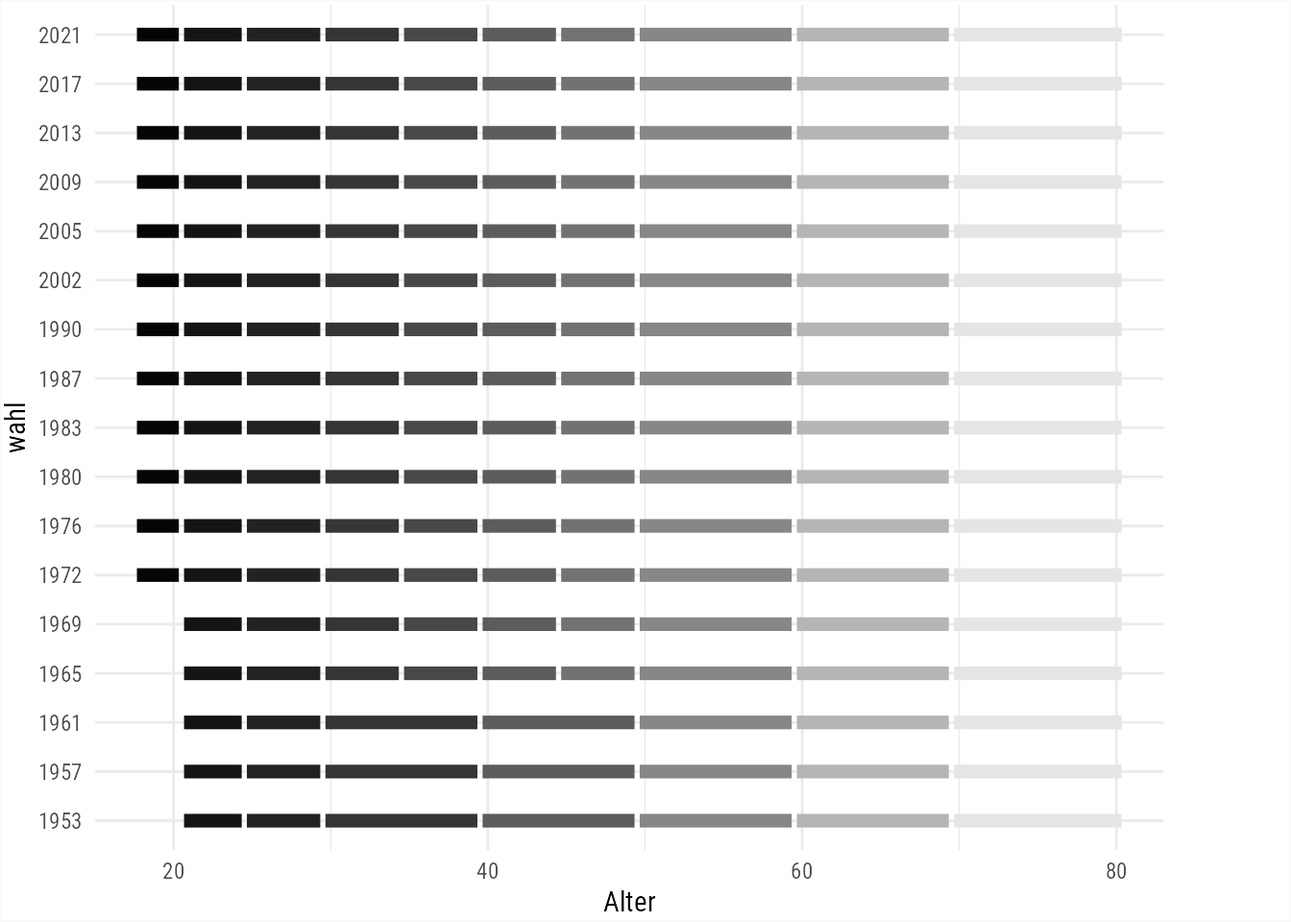
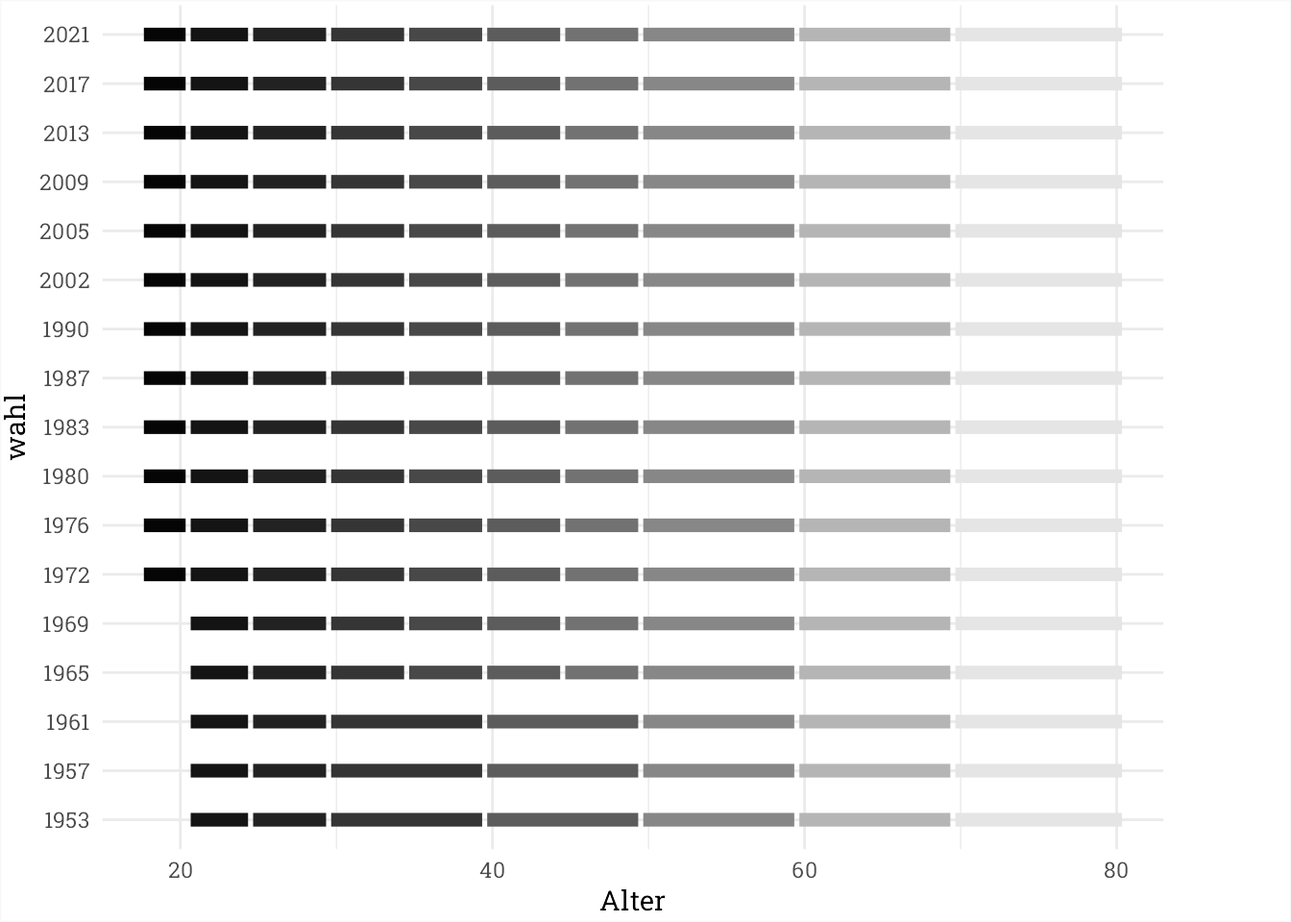
Details und Labels Wbt nach Altersgruppen + nach Geschlecht

diff --git a/01-wahlbeteiligung/01-wahlbeteiligung.html b/01-wahlbeteiligung/01-wahlbeteiligung.html
@@ -105,13 +105,12 @@ pre > code.sourceCode > span > a:first-child::before { text-decoration: underlin
 <div class="sourceCode cell-code" id="cb1"><pre class="sourceCode r code-with-copy"><code class="sourceCode r"><span id="cb1-1"><a href="#cb1-1" aria-hidden="true" tabindex="-1"></a><span class="fu">library</span>(tidyverse)</span>
 <span id="cb1-2"><a href="#cb1-2" aria-hidden="true" tabindex="-1"></a><span class="fu">library</span>(ggtext)</span>
 <span id="cb1-3"><a href="#cb1-3" aria-hidden="true" tabindex="-1"></a><span class="fu">library</span>(gganimate)</span>
-<span id="cb1-4"><a href="#cb1-4" aria-hidden="true" tabindex="-1"></a><span class="fu">library</span>(gt)</span>
-<span id="cb1-5"><a href="#cb1-5" aria-hidden="true" tabindex="-1"></a><span class="fu">library</span>(here)</span>
-<span id="cb1-6"><a href="#cb1-6" aria-hidden="true" tabindex="-1"></a></span>
-<span id="cb1-7"><a href="#cb1-7" aria-hidden="true" tabindex="-1"></a>knitr<span class="sc">::</span>opts_chunk<span class="sc">$</span><span class="fu">set</span>(<span class="at">dev =</span> <span class="st">"ragg_png"</span>)</span>
-<span id="cb1-8"><a href="#cb1-8" aria-hidden="true" tabindex="-1"></a></span>
-<span id="cb1-9"><a href="#cb1-9" aria-hidden="true" tabindex="-1"></a><span class="fu">source</span>(<span class="fu">here</span>(<span class="st">"R"</span>, <span class="st">"custom-theme.R"</span>))</span>
-<span id="cb1-10"><a href="#cb1-10" aria-hidden="true" tabindex="-1"></a><span class="fu">theme_set</span>(<span class="fu">theme_custom</span>())</span></code><button title="Copy to Clipboard" class="code-copy-button"><i class="bi"></i></button></pre></div>
+<span id="cb1-4"><a href="#cb1-4" aria-hidden="true" tabindex="-1"></a><span class="fu">library</span>(here)</span>
+<span id="cb1-5"><a href="#cb1-5" aria-hidden="true" tabindex="-1"></a></span>
+<span id="cb1-6"><a href="#cb1-6" aria-hidden="true" tabindex="-1"></a>knitr<span class="sc">::</span>opts_chunk<span class="sc">$</span><span class="fu">set</span>(<span class="at">dev =</span> <span class="st">"ragg_png"</span>)</span>
+<span id="cb1-7"><a href="#cb1-7" aria-hidden="true" tabindex="-1"></a></span>
+<span id="cb1-8"><a href="#cb1-8" aria-hidden="true" tabindex="-1"></a><span class="fu">source</span>(<span class="fu">here</span>(<span class="st">"R"</span>, <span class="st">"custom-theme.R"</span>))</span>
+<span id="cb1-9"><a href="#cb1-9" aria-hidden="true" tabindex="-1"></a><span class="fu">theme_set</span>(<span class="fu">theme_custom</span>())</span></code><button title="Copy to Clipboard" class="code-copy-button"><i class="bi"></i></button></pre></div>
 </details>
 </div>
 </section>
@@ -197,11 +196,11 @@ pre > code.sourceCode > span > a:first-child::before { text-decoration: underlin
 <span id="cb5-9"><a href="#cb5-9" aria-hidden="true" tabindex="-1"></a>    <span class="at">color =</span> <span class="st">"grey50"</span>, <span class="at">linewidth =</span> <span class="fl">0.9</span>) <span class="sc">+</span></span>
 <span id="cb5-10"><a href="#cb5-10" aria-hidden="true" tabindex="-1"></a>  <span class="fu">geom_point</span>(</span>
 <span id="cb5-11"><a href="#cb5-11" aria-hidden="true" tabindex="-1"></a>    <span class="fu">aes</span>(<span class="at">y =</span> wbt_m, <span class="at">fill =</span> <span class="st">"männlich"</span>),</span>
-<span id="cb5-12"><a href="#cb5-12" aria-hidden="true" tabindex="-1"></a>    <span class="at">size =</span> <span class="dv">4</span>, <span class="at">shape =</span> <span class="dv">21</span>, <span class="at">color =</span> <span class="st">"white"</span>, <span class="at">stroke =</span> <span class="fl">0.2</span></span>
+<span id="cb5-12"><a href="#cb5-12" aria-hidden="true" tabindex="-1"></a>    <span class="at">size =</span> <span class="dv">4</span>, <span class="at">shape =</span> <span class="dv">21</span>, <span class="at">color =</span> <span class="st">"white"</span>, <span class="at">stroke =</span> <span class="fl">0.5</span></span>
 <span id="cb5-13"><a href="#cb5-13" aria-hidden="true" tabindex="-1"></a>  ) <span class="sc">+</span></span>
 <span id="cb5-14"><a href="#cb5-14" aria-hidden="true" tabindex="-1"></a>  <span class="fu">geom_point</span>(</span>
 <span id="cb5-15"><a href="#cb5-15" aria-hidden="true" tabindex="-1"></a>    <span class="fu">aes</span>(<span class="at">y =</span> wbt_w, <span class="at">fill =</span> <span class="st">"weiblich"</span>),</span>
-<span id="cb5-16"><a href="#cb5-16" aria-hidden="true" tabindex="-1"></a>    <span class="at">size =</span> <span class="dv">4</span>, <span class="at">shape =</span> <span class="dv">21</span>, <span class="at">color =</span> <span class="st">"white"</span>, <span class="at">stroke =</span> <span class="fl">0.2</span></span>
+<span id="cb5-16"><a href="#cb5-16" aria-hidden="true" tabindex="-1"></a>    <span class="at">size =</span> <span class="dv">4</span>, <span class="at">shape =</span> <span class="dv">21</span>, <span class="at">color =</span> <span class="st">"white"</span>, <span class="at">stroke =</span> <span class="fl">0.5</span></span>
 <span id="cb5-17"><a href="#cb5-17" aria-hidden="true" tabindex="-1"></a>  ) <span class="sc">+</span></span>
 <span id="cb5-18"><a href="#cb5-18" aria-hidden="true" tabindex="-1"></a>  <span class="fu">scale_x_discrete</span>(<span class="at">position =</span> <span class="st">"top"</span>, <span class="at">expand =</span> <span class="fu">expansion</span>(<span class="at">add =</span> <span class="fu">c</span>(<span class="fl">0.3</span>, <span class="fl">0.8</span>))) <span class="sc">+</span></span>
 <span id="cb5-19"><a href="#cb5-19" aria-hidden="true" tabindex="-1"></a>  <span class="fu">scale_y_continuous</span>(<span class="at">labels =</span> <span class="cf">function</span>(x) <span class="fu">paste</span>(x, <span class="st">"%"</span>)) <span class="sc">+</span></span>
@@ -239,30 +238,31 @@ pre > code.sourceCode > span > a:first-child::before { text-decoration: underlin
 <span id="cb6-9"><a href="#cb6-9" aria-hidden="true" tabindex="-1"></a>    <span class="at">color =</span> <span class="st">"grey50"</span>, <span class="at">linewidth =</span> <span class="fl">0.9</span>) <span class="sc">+</span></span>
 <span id="cb6-10"><a href="#cb6-10" aria-hidden="true" tabindex="-1"></a>  <span class="fu">geom_point</span>(</span>
 <span id="cb6-11"><a href="#cb6-11" aria-hidden="true" tabindex="-1"></a>    <span class="fu">aes</span>(<span class="at">y =</span> wahlbeteiligung_m, <span class="at">fill =</span> <span class="st">"männlich"</span>, <span class="at">size =</span> waehler_m),</span>
-<span id="cb6-12"><a href="#cb6-12" aria-hidden="true" tabindex="-1"></a>    <span class="at">shape =</span> <span class="dv">21</span>, <span class="at">color =</span> <span class="st">"white"</span>, <span class="at">stroke =</span> <span class="fl">0.2</span></span>
+<span id="cb6-12"><a href="#cb6-12" aria-hidden="true" tabindex="-1"></a>    <span class="at">shape =</span> <span class="dv">21</span>, <span class="at">color =</span> <span class="st">"white"</span>, <span class="at">stroke =</span> <span class="fl">0.5</span></span>
 <span id="cb6-13"><a href="#cb6-13" aria-hidden="true" tabindex="-1"></a>  ) <span class="sc">+</span></span>
 <span id="cb6-14"><a href="#cb6-14" aria-hidden="true" tabindex="-1"></a>  <span class="fu">geom_point</span>(</span>
 <span id="cb6-15"><a href="#cb6-15" aria-hidden="true" tabindex="-1"></a>    <span class="fu">aes</span>(<span class="at">y =</span> wahlbeteiligung_w, <span class="at">fill =</span> <span class="st">"weiblich"</span>, <span class="at">size =</span> waehler_w),</span>
-<span id="cb6-16"><a href="#cb6-16" aria-hidden="true" tabindex="-1"></a>    <span class="at">shape =</span> <span class="dv">21</span>, <span class="at">color =</span> <span class="st">"white"</span>, <span class="at">stroke =</span> <span class="fl">0.2</span></span>
+<span id="cb6-16"><a href="#cb6-16" aria-hidden="true" tabindex="-1"></a>    <span class="at">shape =</span> <span class="dv">21</span>, <span class="at">color =</span> <span class="st">"white"</span>, <span class="at">stroke =</span> <span class="fl">0.5</span></span>
 <span id="cb6-17"><a href="#cb6-17" aria-hidden="true" tabindex="-1"></a>  ) <span class="sc">+</span></span>
 <span id="cb6-18"><a href="#cb6-18" aria-hidden="true" tabindex="-1"></a>  <span class="fu">scale_x_discrete</span>(<span class="at">position =</span> <span class="st">"top"</span>, <span class="at">expand =</span> <span class="fu">expansion</span>(<span class="at">add =</span> <span class="fu">c</span>(<span class="fl">0.3</span>, <span class="fl">0.8</span>))) <span class="sc">+</span></span>
 <span id="cb6-19"><a href="#cb6-19" aria-hidden="true" tabindex="-1"></a>  <span class="fu">scale_y_continuous</span>(<span class="at">labels =</span> <span class="cf">function</span>(x) <span class="fu">paste</span>(x, <span class="st">"%"</span>)) <span class="sc">+</span></span>
 <span id="cb6-20"><a href="#cb6-20" aria-hidden="true" tabindex="-1"></a>  <span class="fu">scale_fill_manual</span>(<span class="at">values =</span> <span class="fu">c</span>(<span class="st">"männlich"</span> <span class="ot">=</span> <span class="st">"#00C4A9"</span>, <span class="st">"weiblich"</span> <span class="ot">=</span> <span class="st">"#8A01F5"</span>)) <span class="sc">+</span></span>
-<span id="cb6-21"><a href="#cb6-21" aria-hidden="true" tabindex="-1"></a>  <span class="fu">scale_size_area</span>(<span class="at">max_size =</span> <span class="dv">9</span>) <span class="sc">+</span></span>
+<span id="cb6-21"><a href="#cb6-21" aria-hidden="true" tabindex="-1"></a>  <span class="fu">scale_size_area</span>(<span class="at">max_size =</span> <span class="dv">9</span>, <span class="at">labels =</span> scales<span class="sc">::</span><span class="fu">label_number</span>(<span class="at">scale =</span> <span class="fl">1e-6</span>, <span class="at">suffix =</span> <span class="st">" Mio."</span>)) <span class="sc">+</span></span>
 <span id="cb6-22"><a href="#cb6-22" aria-hidden="true" tabindex="-1"></a>  <span class="fu">coord_cartesian</span>(</span>
 <span id="cb6-23"><a href="#cb6-23" aria-hidden="true" tabindex="-1"></a>    <span class="at">clip =</span> <span class="st">"off"</span>, <span class="at">ylim =</span> <span class="fu">c</span>(<span class="dv">50</span>, <span class="dv">100</span>)) <span class="sc">+</span></span>
-<span id="cb6-24"><a href="#cb6-24" aria-hidden="true" tabindex="-1"></a>  <span class="fu">labs</span>(</span>
-<span id="cb6-25"><a href="#cb6-25" aria-hidden="true" tabindex="-1"></a>    <span class="at">subtitle =</span> <span class="st">"Wahlbeteiligung nach Altersgruppe und Geschlecht"</span>,</span>
-<span id="cb6-26"><a href="#cb6-26" aria-hidden="true" tabindex="-1"></a>    <span class="at">x =</span> <span class="st">"Altersgruppe"</span>,</span>
-<span id="cb6-27"><a href="#cb6-27" aria-hidden="true" tabindex="-1"></a>    <span class="at">y =</span> <span class="st">"Wahlbeteiligung (in %)"</span>,</span>
-<span id="cb6-28"><a href="#cb6-28" aria-hidden="true" tabindex="-1"></a>    <span class="at">fill =</span> <span class="st">"Geschlecht"</span>,</span>
-<span id="cb6-29"><a href="#cb6-29" aria-hidden="true" tabindex="-1"></a>    <span class="at">caption =</span> <span class="st">"Daten: Bundeswahlleiterin, repräsentative Wahlstatistik. Visualisierung: Ansgar Wolsing"</span></span>
-<span id="cb6-30"><a href="#cb6-30" aria-hidden="true" tabindex="-1"></a>  )</span></code><button title="Copy to Clipboard" class="code-copy-button"><i class="bi"></i></button></pre></div>
+<span id="cb6-24"><a href="#cb6-24" aria-hidden="true" tabindex="-1"></a>  <span class="fu">guides</span>(<span class="at">size =</span> <span class="fu">guide_legend</span>(<span class="at">override.aes =</span> <span class="fu">list</span>(<span class="st">"color"</span> <span class="ot">=</span> <span class="st">"grey10"</span>, <span class="at">stroke =</span> <span class="fl">0.2</span>))) <span class="sc">+</span></span>
+<span id="cb6-25"><a href="#cb6-25" aria-hidden="true" tabindex="-1"></a>  <span class="fu">labs</span>(</span>
+<span id="cb6-26"><a href="#cb6-26" aria-hidden="true" tabindex="-1"></a>    <span class="at">subtitle =</span> <span class="st">"Wahlbeteiligung nach Altersgruppe und Geschlecht"</span>,</span>
+<span id="cb6-27"><a href="#cb6-27" aria-hidden="true" tabindex="-1"></a>    <span class="at">x =</span> <span class="st">"Altersgruppe"</span>,</span>
+<span id="cb6-28"><a href="#cb6-28" aria-hidden="true" tabindex="-1"></a>    <span class="at">y =</span> <span class="st">"Wahlbeteiligung (in %)"</span>,</span>
+<span id="cb6-29"><a href="#cb6-29" aria-hidden="true" tabindex="-1"></a>    <span class="at">fill =</span> <span class="st">"Geschlecht"</span>, <span class="at">size =</span> <span class="st">"Anzahl Wählende"</span>,</span>
+<span id="cb6-30"><a href="#cb6-30" aria-hidden="true" tabindex="-1"></a>    <span class="at">caption =</span> <span class="st">"Daten: Bundeswahlleiterin, repräsentative Wahlstatistik. Visualisierung: Ansgar Wolsing"</span></span>
+<span id="cb6-31"><a href="#cb6-31" aria-hidden="true" tabindex="-1"></a>  )</span></code><button title="Copy to Clipboard" class="code-copy-button"><i class="bi"></i></button></pre></div>
 </details>
 <div class="cell-output-display">
 <div>
 <figure class="figure">
-<p><img src="01-wahlbeteiligung_files/figure-html/wbt-altersgruppen-geschlecht-dumbbell-plot-2-1.png" class="img-fluid figure-img" width="672"></p>
+<p><img src="01-wahlbeteiligung_files/figure-html/wbt-altersgruppen-geschlecht-dumbbell-plot-2-1.png" class="img-fluid figure-img" width="864"></p>
 </figure>
 </div>
 </div>
@@ -282,7 +282,7 @@ pre > code.sourceCode > span > a:first-child::before { text-decoration: underlin
 <span id="cb7-10"><a href="#cb7-10" aria-hidden="true" tabindex="-1"></a>    <span class="fu">aes</span>(<span class="at">x =</span> altersgruppe, </span>
 <span id="cb7-11"><a href="#cb7-11" aria-hidden="true" tabindex="-1"></a>        <span class="at">y =</span> wahlbeteiligung,</span>
 <span id="cb7-12"><a href="#cb7-12" aria-hidden="true" tabindex="-1"></a>        <span class="at">label =</span> wahl), </span>
-<span id="cb7-13"><a href="#cb7-13" aria-hidden="true" tabindex="-1"></a>    <span class="at">color =</span> color_pal[<span class="dv">1</span>], <span class="at">hjust =</span> <span class="dv">0</span>, <span class="at">nudge_x =</span> <span class="fl">0.1</span>, <span class="at">family =</span> <span class="st">"Roboto Condensed"</span>, <span class="at">size =</span> <span class="dv">5</span>,</span>
+<span id="cb7-13"><a href="#cb7-13" aria-hidden="true" tabindex="-1"></a>    <span class="at">color =</span> color_pal[<span class="dv">1</span>], <span class="at">hjust =</span> <span class="dv">0</span>, <span class="at">nudge_x =</span> <span class="fl">0.1</span>, <span class="at">family =</span> <span class="st">"Roboto Slab"</span>, <span class="at">size =</span> <span class="dv">5</span>,</span>
 <span id="cb7-14"><a href="#cb7-14" aria-hidden="true" tabindex="-1"></a>    <span class="at">fontface =</span> <span class="st">"bold"</span></span>
 <span id="cb7-15"><a href="#cb7-15" aria-hidden="true" tabindex="-1"></a>  ) <span class="sc">+</span></span>
 <span id="cb7-16"><a href="#cb7-16" aria-hidden="true" tabindex="-1"></a>  <span class="fu">scale_x_discrete</span>(<span class="at">position =</span> <span class="st">"top"</span>, <span class="at">expand =</span> <span class="fu">expansion</span>(<span class="at">add =</span> <span class="fu">c</span>(<span class="fl">0.3</span>, <span class="fl">0.8</span>))) <span class="sc">+</span></span>
@@ -334,7 +334,7 @@ pre > code.sourceCode > span > a:first-child::before { text-decoration: underlin
 <span id="cb8-14"><a href="#cb8-14" aria-hidden="true" tabindex="-1"></a>    <span class="fu">aes</span>(<span class="at">x =</span> altersgruppe, </span>
 <span id="cb8-15"><a href="#cb8-15" aria-hidden="true" tabindex="-1"></a>        <span class="at">y =</span> wahlbeteiligung,</span>
 <span id="cb8-16"><a href="#cb8-16" aria-hidden="true" tabindex="-1"></a>        <span class="at">label =</span> geschlecht_label, <span class="at">color =</span> geschlecht), </span>
-<span id="cb8-17"><a href="#cb8-17" aria-hidden="true" tabindex="-1"></a>    <span class="at">hjust =</span> <span class="dv">0</span>, <span class="at">nudge_x =</span> <span class="fl">0.1</span>, <span class="at">family =</span> <span class="st">"Roboto Condensed"</span>, <span class="at">size =</span> <span class="dv">3</span>,</span>
+<span id="cb8-17"><a href="#cb8-17" aria-hidden="true" tabindex="-1"></a>    <span class="at">hjust =</span> <span class="dv">0</span>, <span class="at">nudge_x =</span> <span class="fl">0.1</span>, <span class="at">family =</span> <span class="st">"Roboto Slab"</span>, <span class="at">size =</span> <span class="dv">3</span>,</span>
 <span id="cb8-18"><a href="#cb8-18" aria-hidden="true" tabindex="-1"></a>    <span class="at">fontface =</span> <span class="st">"bold"</span></span>
 <span id="cb8-19"><a href="#cb8-19" aria-hidden="true" tabindex="-1"></a>  ) <span class="sc">+</span></span>
 <span id="cb8-20"><a href="#cb8-20" aria-hidden="true" tabindex="-1"></a>  <span class="fu">geom_richtext</span>(</span>
@@ -342,7 +342,7 @@ pre > code.sourceCode > span > a:first-child::before { text-decoration: underlin
 <span id="cb8-22"><a href="#cb8-22" aria-hidden="true" tabindex="-1"></a>      <span class="fu">distinct</span>(altersgruppe, wahl),</span>
 <span id="cb8-23"><a href="#cb8-23" aria-hidden="true" tabindex="-1"></a>    <span class="fu">aes</span>(<span class="at">x =</span> altersgruppe, <span class="at">y =</span> <span class="dv">60</span>, </span>
 <span id="cb8-24"><a href="#cb8-24" aria-hidden="true" tabindex="-1"></a>        <span class="at">label =</span> <span class="fu">sprintf</span>(<span class="st">"&lt;span style='font-size: 12pt'&gt;Bundestagswahl&lt;/span&gt;&lt;br&gt;&lt;b&gt;%s&lt;/b&gt;"</span>, wahl)),</span>
-<span id="cb8-25"><a href="#cb8-25" aria-hidden="true" tabindex="-1"></a>    <span class="at">color =</span> <span class="st">"grey50"</span>, <span class="at">size =</span> <span class="dv">12</span>, <span class="at">hjust =</span> <span class="dv">1</span>, <span class="at">family =</span> <span class="st">"Roboto Condensed"</span>,</span>
+<span id="cb8-25"><a href="#cb8-25" aria-hidden="true" tabindex="-1"></a>    <span class="at">color =</span> <span class="st">"grey50"</span>, <span class="at">size =</span> <span class="dv">12</span>, <span class="at">hjust =</span> <span class="dv">1</span>, <span class="at">family =</span> <span class="st">"Roboto Slab"</span>,</span>
 <span id="cb8-26"><a href="#cb8-26" aria-hidden="true" tabindex="-1"></a>    <span class="at">fill =</span> <span class="cn">NA</span>, <span class="at">label.size =</span> <span class="dv">0</span>, <span class="at">lineheight =</span> <span class="fl">0.2</span>,</span>
 <span id="cb8-27"><a href="#cb8-27" aria-hidden="true" tabindex="-1"></a>    <span class="at">inherit.aes =</span> <span class="cn">FALSE</span></span>
 <span id="cb8-28"><a href="#cb8-28" aria-hidden="true" tabindex="-1"></a>  ) <span class="sc">+</span></span>
@@ -409,40 +409,63 @@ pre > code.sourceCode > span > a:first-child::before { text-decoration: underlin
 <span id="cb10-4"><a href="#cb10-4" aria-hidden="true" tabindex="-1"></a>btw_wahljahre <span class="ot">&lt;-</span> <span class="fu">c</span>(<span class="dv">1953</span>, <span class="dv">1957</span>, <span class="dv">1961</span>, <span class="dv">1965</span>, <span class="dv">1969</span>, <span class="dv">1972</span>, <span class="dv">1976</span>, <span class="dv">1980</span>, <span class="dv">1983</span>, <span class="dv">1987</span>,</span>
 <span id="cb10-5"><a href="#cb10-5" aria-hidden="true" tabindex="-1"></a>                   <span class="dv">1990</span>, <span class="dv">1994</span>, <span class="dv">1998</span>, <span class="dv">2002</span>, <span class="dv">2005</span>, <span class="dv">2009</span>, <span class="dv">2013</span>, <span class="dv">2017</span>, <span class="dv">2021</span>)</span>
 <span id="cb10-6"><a href="#cb10-6" aria-hidden="true" tabindex="-1"></a></span>
-<span id="cb10-7"><a href="#cb10-7" aria-hidden="true" tabindex="-1"></a>df_wbt <span class="sc">|&gt;</span> </span>
-<span id="cb10-8"><a href="#cb10-8" aria-hidden="true" tabindex="-1"></a>  <span class="fu">filter</span>(altersgruppe <span class="sc">!=</span> <span class="st">"Summe"</span>, geschlecht <span class="sc">==</span> <span class="st">"Summe"</span>) <span class="sc">|&gt;</span> </span>
-<span id="cb10-9"><a href="#cb10-9" aria-hidden="true" tabindex="-1"></a>  <span class="fu">mutate</span>(<span class="at">altersgruppe_highlighted =</span> <span class="fu">case_when</span>(</span>
-<span id="cb10-10"><a href="#cb10-10" aria-hidden="true" tabindex="-1"></a>    altersgruppe <span class="sc">%in%</span> highlighted_altersgrp_jung <span class="sc">~</span> <span class="st">"1"</span>,</span>
-<span id="cb10-11"><a href="#cb10-11" aria-hidden="true" tabindex="-1"></a>    altersgruppe <span class="sc">%in%</span> highlighted_altersgrp_alt <span class="sc">~</span> <span class="st">"3"</span>,</span>
-<span id="cb10-12"><a href="#cb10-12" aria-hidden="true" tabindex="-1"></a>    <span class="cn">TRUE</span> <span class="sc">~</span> <span class="st">"2"</span></span>
-<span id="cb10-13"><a href="#cb10-13" aria-hidden="true" tabindex="-1"></a>  )) <span class="sc">|&gt;</span> </span>
-<span id="cb10-14"><a href="#cb10-14" aria-hidden="true" tabindex="-1"></a>  <span class="fu">mutate</span>(<span class="at">wahl =</span> <span class="fu">factor</span>(wahl, <span class="at">levels =</span> btw_wahljahre)) <span class="sc">|&gt;</span> </span>
-<span id="cb10-15"><a href="#cb10-15" aria-hidden="true" tabindex="-1"></a>  <span class="fu">ggplot</span>(<span class="fu">aes</span>(wahl, waehler, <span class="at">group =</span> altersgruppe, </span>
-<span id="cb10-16"><a href="#cb10-16" aria-hidden="true" tabindex="-1"></a>             <span class="at">fill =</span> altersgruppe_highlighted)) <span class="sc">+</span></span>
-<span id="cb10-17"><a href="#cb10-17" aria-hidden="true" tabindex="-1"></a>  <span class="fu">geom_col</span>(<span class="at">position =</span> <span class="st">"fill"</span>, <span class="at">col =</span> <span class="st">"white"</span>, <span class="at">linewidth =</span> <span class="fl">0.2</span>) <span class="sc">+</span></span>
-<span id="cb10-18"><a href="#cb10-18" aria-hidden="true" tabindex="-1"></a>  <span class="co"># geom_text(aes(label = altersgruppe), position = position_fill(), size = 2, vjust = 1) +</span></span>
-<span id="cb10-19"><a href="#cb10-19" aria-hidden="true" tabindex="-1"></a>  <span class="fu">scale_x_discrete</span>(<span class="at">drop =</span> <span class="cn">FALSE</span>) <span class="sc">+</span></span>
-<span id="cb10-20"><a href="#cb10-20" aria-hidden="true" tabindex="-1"></a>  <span class="fu">scale_y_continuous</span>(</span>
-<span id="cb10-21"><a href="#cb10-21" aria-hidden="true" tabindex="-1"></a>    <span class="at">breaks =</span> <span class="fu">seq</span>(<span class="dv">0</span>, <span class="dv">1</span>, <span class="fl">0.1</span>),</span>
-<span id="cb10-22"><a href="#cb10-22" aria-hidden="true" tabindex="-1"></a>    <span class="at">labels =</span> scales<span class="sc">::</span><span class="fu">label_percent</span>(),</span>
-<span id="cb10-23"><a href="#cb10-23" aria-hidden="true" tabindex="-1"></a>    <span class="at">sec.axis =</span> <span class="fu">dup_axis</span>(),</span>
-<span id="cb10-24"><a href="#cb10-24" aria-hidden="true" tabindex="-1"></a>    <span class="at">expand =</span> <span class="fu">expansion</span>(<span class="at">mult =</span> <span class="fu">c</span>(<span class="dv">0</span>, <span class="fl">0.05</span>))</span>
-<span id="cb10-25"><a href="#cb10-25" aria-hidden="true" tabindex="-1"></a>    ) <span class="sc">+</span></span>
-<span id="cb10-26"><a href="#cb10-26" aria-hidden="true" tabindex="-1"></a>  <span class="fu">scale_fill_manual</span>(<span class="at">values =</span> <span class="fu">c</span>(<span class="st">"1"</span> <span class="ot">=</span> color_pal[<span class="dv">3</span>], <span class="st">"2"</span> <span class="ot">=</span> <span class="st">"grey75"</span>, <span class="st">"3"</span> <span class="ot">=</span> color_pal[<span class="dv">1</span>])) <span class="sc">+</span></span>
-<span id="cb10-27"><a href="#cb10-27" aria-hidden="true" tabindex="-1"></a>  <span class="fu">guides</span>(<span class="at">fill =</span> <span class="st">"none"</span>) <span class="sc">+</span></span>
-<span id="cb10-28"><a href="#cb10-28" aria-hidden="true" tabindex="-1"></a>  <span class="fu">labs</span>(</span>
-<span id="cb10-29"><a href="#cb10-29" aria-hidden="true" tabindex="-1"></a>    <span class="at">title =</span> <span class="st">"Der Anteil der Wählenden ab 60 Jahren hat sich seit 1953 verdoppelt"</span>,</span>
-<span id="cb10-30"><a href="#cb10-30" aria-hidden="true" tabindex="-1"></a>    <span class="at">subtitle =</span> <span class="fu">sprintf</span>(<span class="st">"Wählende &lt;b style='color:%s'&gt;unter 25 Jahre&lt;/b&gt; | &lt;b style='color:%s'&gt;ab 60 Jahren&lt;/b&gt;"</span>, color_pal[<span class="dv">3</span>], color_pal[<span class="dv">1</span>]),</span>
-<span id="cb10-31"><a href="#cb10-31" aria-hidden="true" tabindex="-1"></a>    <span class="at">caption =</span> <span class="st">"Daten: Bundeswahlleiterin, repräsentative Wahlstatistik. Visualisierung: Ansgar Wolsing"</span>,</span>
-<span id="cb10-32"><a href="#cb10-32" aria-hidden="true" tabindex="-1"></a>    <span class="at">x =</span> <span class="cn">NULL</span>,</span>
-<span id="cb10-33"><a href="#cb10-33" aria-hidden="true" tabindex="-1"></a>    <span class="at">y =</span> <span class="st">"Anteil an der Wählerschaft (in %)"</span>,</span>
-<span id="cb10-34"><a href="#cb10-34" aria-hidden="true" tabindex="-1"></a>  ) <span class="sc">+</span> </span>
-<span id="cb10-35"><a href="#cb10-35" aria-hidden="true" tabindex="-1"></a>  <span class="fu">theme</span>(</span>
-<span id="cb10-36"><a href="#cb10-36" aria-hidden="true" tabindex="-1"></a>    <span class="at">legend.position =</span> <span class="st">"bottom"</span>,</span>
-<span id="cb10-37"><a href="#cb10-37" aria-hidden="true" tabindex="-1"></a>    <span class="at">panel.grid.major.x =</span> <span class="fu">element_blank</span>(),</span>
-<span id="cb10-38"><a href="#cb10-38" aria-hidden="true" tabindex="-1"></a>    <span class="at">panel.grid.minor =</span> <span class="fu">element_blank</span>(),</span>
-<span id="cb10-39"><a href="#cb10-39" aria-hidden="true" tabindex="-1"></a>    <span class="at">axis.title.y.right =</span> <span class="fu">element_blank</span>()</span>
-<span id="cb10-40"><a href="#cb10-40" aria-hidden="true" tabindex="-1"></a>  )</span></code><button title="Copy to Clipboard" class="code-copy-button"><i class="bi"></i></button></pre></div>
+<span id="cb10-7"><a href="#cb10-7" aria-hidden="true" tabindex="-1"></a></span>
+<span id="cb10-8"><a href="#cb10-8" aria-hidden="true" tabindex="-1"></a>df_plot_wbt_altersgrp <span class="ot">&lt;-</span> df_wbt <span class="sc">|&gt;</span> </span>
+<span id="cb10-9"><a href="#cb10-9" aria-hidden="true" tabindex="-1"></a>  <span class="fu">filter</span>(altersgruppe <span class="sc">!=</span> <span class="st">"Summe"</span>, geschlecht <span class="sc">==</span> <span class="st">"Summe"</span>) <span class="sc">|&gt;</span> </span>
+<span id="cb10-10"><a href="#cb10-10" aria-hidden="true" tabindex="-1"></a>  <span class="fu">select</span>(wahl, altersgruppe, waehler) <span class="sc">|&gt;</span> </span>
+<span id="cb10-11"><a href="#cb10-11" aria-hidden="true" tabindex="-1"></a>  <span class="fu">group_by</span>(wahl) <span class="sc">|&gt;</span> </span>
+<span id="cb10-12"><a href="#cb10-12" aria-hidden="true" tabindex="-1"></a>  <span class="fu">mutate</span>(<span class="at">waehler_share =</span> waehler <span class="sc">/</span> <span class="fu">sum</span>(waehler)) <span class="sc">|&gt;</span> </span>
+<span id="cb10-13"><a href="#cb10-13" aria-hidden="true" tabindex="-1"></a>  <span class="fu">ungroup</span>() <span class="sc">|&gt;</span> </span>
+<span id="cb10-14"><a href="#cb10-14" aria-hidden="true" tabindex="-1"></a>  <span class="fu">mutate</span>(<span class="at">altersgruppe_highlighted =</span> <span class="fu">case_when</span>(</span>
+<span id="cb10-15"><a href="#cb10-15" aria-hidden="true" tabindex="-1"></a>    altersgruppe <span class="sc">%in%</span> highlighted_altersgrp_jung <span class="sc">~</span> <span class="st">"1"</span>,</span>
+<span id="cb10-16"><a href="#cb10-16" aria-hidden="true" tabindex="-1"></a>    altersgruppe <span class="sc">%in%</span> highlighted_altersgrp_alt <span class="sc">~</span> <span class="st">"3"</span>,</span>
+<span id="cb10-17"><a href="#cb10-17" aria-hidden="true" tabindex="-1"></a>    <span class="cn">TRUE</span> <span class="sc">~</span> <span class="st">"2"</span></span>
+<span id="cb10-18"><a href="#cb10-18" aria-hidden="true" tabindex="-1"></a>  )) <span class="sc">|&gt;</span> </span>
+<span id="cb10-19"><a href="#cb10-19" aria-hidden="true" tabindex="-1"></a>  <span class="fu">mutate</span>(<span class="at">wahl =</span> <span class="fu">factor</span>(wahl, <span class="at">levels =</span> btw_wahljahre)) </span>
+<span id="cb10-20"><a href="#cb10-20" aria-hidden="true" tabindex="-1"></a></span>
+<span id="cb10-21"><a href="#cb10-21" aria-hidden="true" tabindex="-1"></a></span>
+<span id="cb10-22"><a href="#cb10-22" aria-hidden="true" tabindex="-1"></a><span class="co"># Daten für die Label am ersten Balken</span></span>
+<span id="cb10-23"><a href="#cb10-23" aria-hidden="true" tabindex="-1"></a>df_plot_wbt_altersgrp_labels <span class="ot">&lt;-</span> df_plot_wbt_altersgrp <span class="sc">|&gt;</span> </span>
+<span id="cb10-24"><a href="#cb10-24" aria-hidden="true" tabindex="-1"></a>  <span class="fu">filter</span>(wahl <span class="sc">==</span>  <span class="fu">first</span>(wahl)) <span class="sc">|&gt;</span> </span>
+<span id="cb10-25"><a href="#cb10-25" aria-hidden="true" tabindex="-1"></a>  <span class="fu">arrange</span>(<span class="fu">desc</span>(altersgruppe)) <span class="sc">|&gt;</span> </span>
+<span id="cb10-26"><a href="#cb10-26" aria-hidden="true" tabindex="-1"></a>  <span class="fu">mutate</span>(</span>
+<span id="cb10-27"><a href="#cb10-27" aria-hidden="true" tabindex="-1"></a>    <span class="at">ypos_label =</span> <span class="fu">cumsum</span>(waehler_share) <span class="sc">-</span> waehler_share <span class="sc">/</span> <span class="dv">2</span>)</span>
+<span id="cb10-28"><a href="#cb10-28" aria-hidden="true" tabindex="-1"></a></span>
+<span id="cb10-29"><a href="#cb10-29" aria-hidden="true" tabindex="-1"></a></span>
+<span id="cb10-30"><a href="#cb10-30" aria-hidden="true" tabindex="-1"></a>df_plot_wbt_altersgrp <span class="sc">|&gt;</span> </span>
+<span id="cb10-31"><a href="#cb10-31" aria-hidden="true" tabindex="-1"></a>  <span class="fu">ggplot</span>(<span class="fu">aes</span>(wahl, waehler_share, <span class="at">group =</span> altersgruppe, </span>
+<span id="cb10-32"><a href="#cb10-32" aria-hidden="true" tabindex="-1"></a>             <span class="at">fill =</span> altersgruppe_highlighted)) <span class="sc">+</span></span>
+<span id="cb10-33"><a href="#cb10-33" aria-hidden="true" tabindex="-1"></a>  <span class="fu">geom_col</span>(<span class="at">position =</span> <span class="st">"fill"</span>, <span class="at">col =</span> <span class="st">"white"</span>, <span class="at">linewidth =</span> <span class="fl">0.2</span>) <span class="sc">+</span></span>
+<span id="cb10-34"><a href="#cb10-34" aria-hidden="true" tabindex="-1"></a>  <span class="co"># Label für den ersten Balken</span></span>
+<span id="cb10-35"><a href="#cb10-35" aria-hidden="true" tabindex="-1"></a>  <span class="fu">geom_text</span>(</span>
+<span id="cb10-36"><a href="#cb10-36" aria-hidden="true" tabindex="-1"></a>    <span class="at">data =</span> df_plot_wbt_altersgrp_labels,</span>
+<span id="cb10-37"><a href="#cb10-37" aria-hidden="true" tabindex="-1"></a>    <span class="fu">aes</span>(wahl, ypos_label, <span class="at">label =</span> <span class="fu">str_wrap</span>(altersgruppe, <span class="dv">5</span>),</span>
+<span id="cb10-38"><a href="#cb10-38" aria-hidden="true" tabindex="-1"></a>        <span class="at">color =</span> <span class="fu">ifelse</span>(altersgruppe_highlighted <span class="sc">==</span> <span class="st">"3"</span>, <span class="st">"white"</span>, <span class="st">"black"</span>)</span>
+<span id="cb10-39"><a href="#cb10-39" aria-hidden="true" tabindex="-1"></a>        ), </span>
+<span id="cb10-40"><a href="#cb10-40" aria-hidden="true" tabindex="-1"></a>    <span class="at">inherit.aes =</span> <span class="cn">FALSE</span>, <span class="at">size =</span> <span class="dv">2</span>, <span class="at">vjust =</span> <span class="fl">0.5</span>,  <span class="at">family =</span> <span class="st">"Roboto Slab"</span>, <span class="at">lineheight =</span> <span class="fl">0.9</span>) <span class="sc">+</span></span>
+<span id="cb10-41"><a href="#cb10-41" aria-hidden="true" tabindex="-1"></a>  <span class="fu">scale_x_discrete</span>(<span class="at">drop =</span> <span class="cn">FALSE</span>) <span class="sc">+</span></span>
+<span id="cb10-42"><a href="#cb10-42" aria-hidden="true" tabindex="-1"></a>  <span class="fu">scale_y_continuous</span>(</span>
+<span id="cb10-43"><a href="#cb10-43" aria-hidden="true" tabindex="-1"></a>    <span class="at">breaks =</span> <span class="fu">seq</span>(<span class="dv">0</span>, <span class="dv">1</span>, <span class="fl">0.1</span>),</span>
+<span id="cb10-44"><a href="#cb10-44" aria-hidden="true" tabindex="-1"></a>    <span class="at">labels =</span> scales<span class="sc">::</span><span class="fu">label_percent</span>(),</span>
+<span id="cb10-45"><a href="#cb10-45" aria-hidden="true" tabindex="-1"></a>    <span class="at">sec.axis =</span> <span class="fu">dup_axis</span>(),</span>
+<span id="cb10-46"><a href="#cb10-46" aria-hidden="true" tabindex="-1"></a>    <span class="at">expand =</span> <span class="fu">expansion</span>(<span class="at">mult =</span> <span class="fu">c</span>(<span class="dv">0</span>, <span class="fl">0.05</span>))</span>
+<span id="cb10-47"><a href="#cb10-47" aria-hidden="true" tabindex="-1"></a>    ) <span class="sc">+</span></span>
+<span id="cb10-48"><a href="#cb10-48" aria-hidden="true" tabindex="-1"></a>  <span class="fu">scale_fill_manual</span>(<span class="at">values =</span> <span class="fu">c</span>(<span class="st">"1"</span> <span class="ot">=</span> color_pal[<span class="dv">3</span>], <span class="st">"2"</span> <span class="ot">=</span> <span class="st">"grey75"</span>, <span class="st">"3"</span> <span class="ot">=</span> color_pal[<span class="dv">1</span>])) <span class="sc">+</span></span>
+<span id="cb10-49"><a href="#cb10-49" aria-hidden="true" tabindex="-1"></a>  <span class="fu">scale_color_identity</span>() <span class="sc">+</span></span>
+<span id="cb10-50"><a href="#cb10-50" aria-hidden="true" tabindex="-1"></a>  <span class="fu">guides</span>(<span class="at">fill =</span> <span class="st">"none"</span>) <span class="sc">+</span></span>
+<span id="cb10-51"><a href="#cb10-51" aria-hidden="true" tabindex="-1"></a>  <span class="fu">labs</span>(</span>
+<span id="cb10-52"><a href="#cb10-52" aria-hidden="true" tabindex="-1"></a>    <span class="at">title =</span> <span class="st">"Der Anteil der Wählenden ab 60 Jahren hat sich seit 1953 verdoppelt"</span>,</span>
+<span id="cb10-53"><a href="#cb10-53" aria-hidden="true" tabindex="-1"></a>    <span class="at">subtitle =</span> <span class="fu">sprintf</span>(<span class="st">"Wählende &lt;b style='color:%s'&gt;unter 25 Jahre&lt;/b&gt; | &lt;b style='color:%s'&gt;ab 60 Jahren&lt;/b&gt;"</span>, color_pal[<span class="dv">3</span>], color_pal[<span class="dv">1</span>]),</span>
+<span id="cb10-54"><a href="#cb10-54" aria-hidden="true" tabindex="-1"></a>    <span class="at">caption =</span> <span class="st">"Daten: Bundeswahlleiterin, repräsentative Wahlstatistik. Visualisierung: Ansgar Wolsing"</span>,</span>
+<span id="cb10-55"><a href="#cb10-55" aria-hidden="true" tabindex="-1"></a>    <span class="at">x =</span> <span class="cn">NULL</span>,</span>
+<span id="cb10-56"><a href="#cb10-56" aria-hidden="true" tabindex="-1"></a>    <span class="at">y =</span> <span class="st">"Anteil an der Wählerschaft (in %)"</span>,</span>
+<span id="cb10-57"><a href="#cb10-57" aria-hidden="true" tabindex="-1"></a>  ) <span class="sc">+</span> </span>
+<span id="cb10-58"><a href="#cb10-58" aria-hidden="true" tabindex="-1"></a>  <span class="fu">theme</span>(</span>
+<span id="cb10-59"><a href="#cb10-59" aria-hidden="true" tabindex="-1"></a>    <span class="at">legend.position =</span> <span class="st">"bottom"</span>,</span>
+<span id="cb10-60"><a href="#cb10-60" aria-hidden="true" tabindex="-1"></a>    <span class="at">panel.grid.major.x =</span> <span class="fu">element_blank</span>(),</span>
+<span id="cb10-61"><a href="#cb10-61" aria-hidden="true" tabindex="-1"></a>    <span class="at">panel.grid.minor =</span> <span class="fu">element_blank</span>(),</span>
+<span id="cb10-62"><a href="#cb10-62" aria-hidden="true" tabindex="-1"></a>    <span class="at">axis.title.y.right =</span> <span class="fu">element_blank</span>()</span>
+<span id="cb10-63"><a href="#cb10-63" aria-hidden="true" tabindex="-1"></a>  )</span></code><button title="Copy to Clipboard" class="code-copy-button"><i class="bi"></i></button></pre></div>
 </details>
 <div class="cell-output-display">
 <div>
@@ -474,8 +497,8 @@ Backup
 <p>Ggf. animiert über Zeit oder 2-3 Charts, um die Veränderungen der Zusammensetzung der Wählerschaft darzustellen.</p>
 <p>Ggf. nur Anteil der Wähler nach Altersgruppe? Weniger Komplexität als das Marimekko-Chart.</p>
 </section>
-<section id="briefwahl" class="level2">
-<h2 class="anchored" data-anchor-id="briefwahl">Briefwahl</h2>
+<section id="briefwahl" class="level3">
+<h3 class="anchored" data-anchor-id="briefwahl">Briefwahl</h3>
 <div class="cell">
 <details class="code-fold">
 <summary>Code</summary>
@@ -485,8 +508,8 @@ Backup
 </details>
 </div>
 </section>
-<section id="wahlbeteiligung-nach-bundesländern-insgesamt" class="level2">
-<h2 class="anchored" data-anchor-id="wahlbeteiligung-nach-bundesländern-insgesamt">Wahlbeteiligung nach Bundesländern insgesamt</h2>
+<section id="wahlbeteiligung-nach-bundesländern-insgesamt" class="level3">
+<h3 class="anchored" data-anchor-id="wahlbeteiligung-nach-bundesländern-insgesamt">Wahlbeteiligung nach Bundesländern insgesamt</h3>
 <div class="cell">
 <details class="code-fold">
 <summary>Code</summary>
@@ -539,8 +562,8 @@ Backup
 </div>
 </div>
 </section>
-<section id="strukturdaten-der-wahlkreise-2021" class="level2">
-<h2 class="anchored" data-anchor-id="strukturdaten-der-wahlkreise-2021">Strukturdaten der Wahlkreise 2021</h2>
+<section id="strukturdaten-der-wahlkreise-2021" class="level3">
+<h3 class="anchored" data-anchor-id="strukturdaten-der-wahlkreise-2021">Strukturdaten der Wahlkreise 2021</h3>
 <p><a href="https://www.bundeswahlleiterin.de/dam/jcr/b1d3fc4f-17eb-455f-a01c-a0bf32135c5d/btw21_strukturdaten.csv" class="uri">https://www.bundeswahlleiterin.de/dam/jcr/b1d3fc4f-17eb-455f-a01c-a0bf32135c5d/btw21_strukturdaten.csv</a></p>
 <p>Wahlergebnisse in den Wahlkreisen 2021</p>
 <p><a href="https://www.bundeswahlleiterin.de/bundestagswahlen/2021/ergebnisse/opendata/btw21/20240211_wdhwahl-vgl2021/csv/kerg.csv" class="uri">https://www.bundeswahlleiterin.de/bundestagswahlen/2021/ergebnisse/opendata/btw21/20240211_wdhwahl-vgl2021/csv/kerg.csv</a></p>
@@ -565,6 +588,7 @@ Backup
 <span id="cb13-16"><a href="#cb13-16" aria-hidden="true" tabindex="-1"></a>  <span class="fu">inner_join</span>(df_wk_struktur_2021, <span class="at">by =</span> <span class="fu">join_by</span>(wahlkreis_nr, wahlkreis_name))</span></code><button title="Copy to Clipboard" class="code-copy-button"><i class="bi"></i></button></pre></div>
 </details>
 </div>
+</section>
 <section id="korrelationen-zwischen-wahlbeteiligung-und-strukturmerkmalen-der-wahlkreise" class="level3">
 <h3 class="anchored" data-anchor-id="korrelationen-zwischen-wahlbeteiligung-und-strukturmerkmalen-der-wahlkreise">Korrelationen zwischen Wahlbeteiligung und Strukturmerkmalen der Wahlkreise</h3>
 <div class="cell">
@@ -685,7 +709,6 @@ Backup
 </div>
 </div>
 </div>
-</section>
 </section>
 </div>
 </div>
